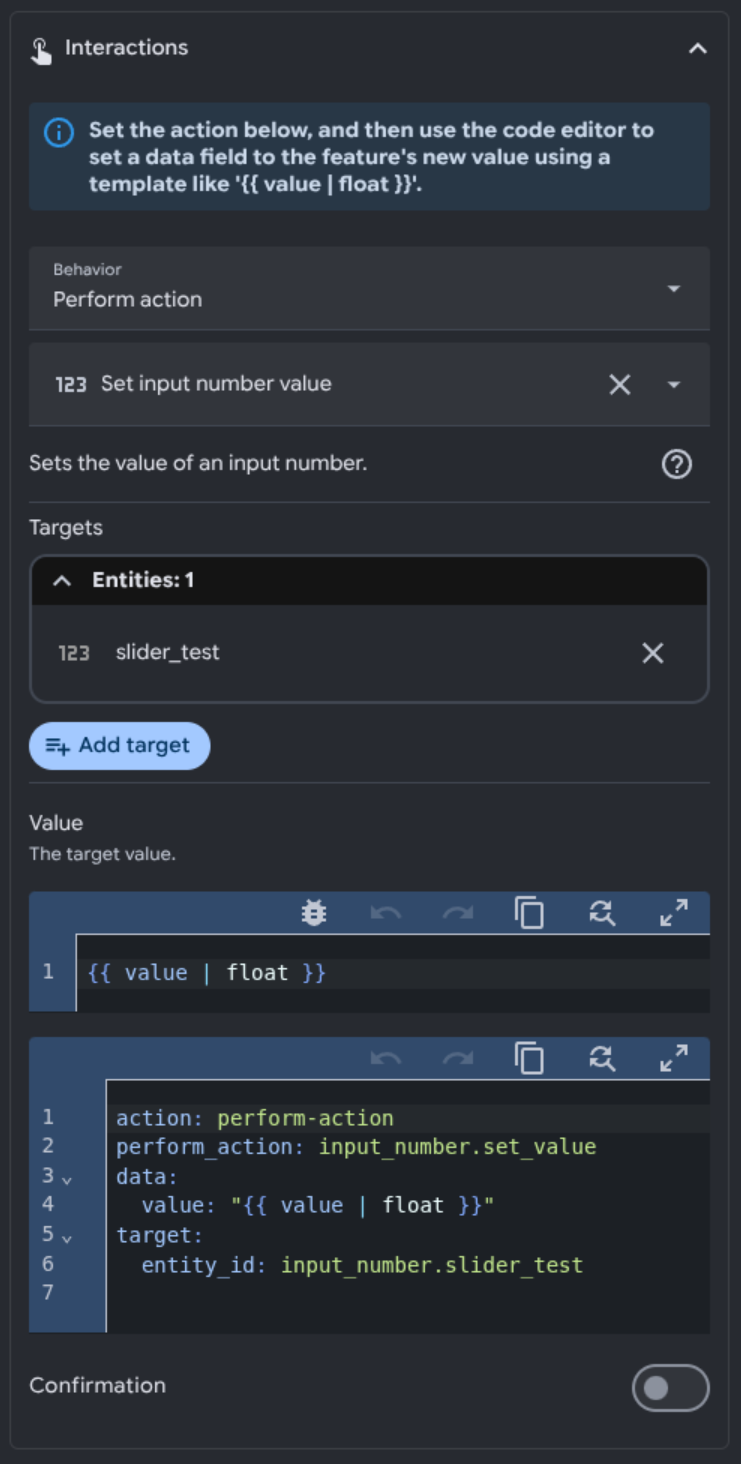
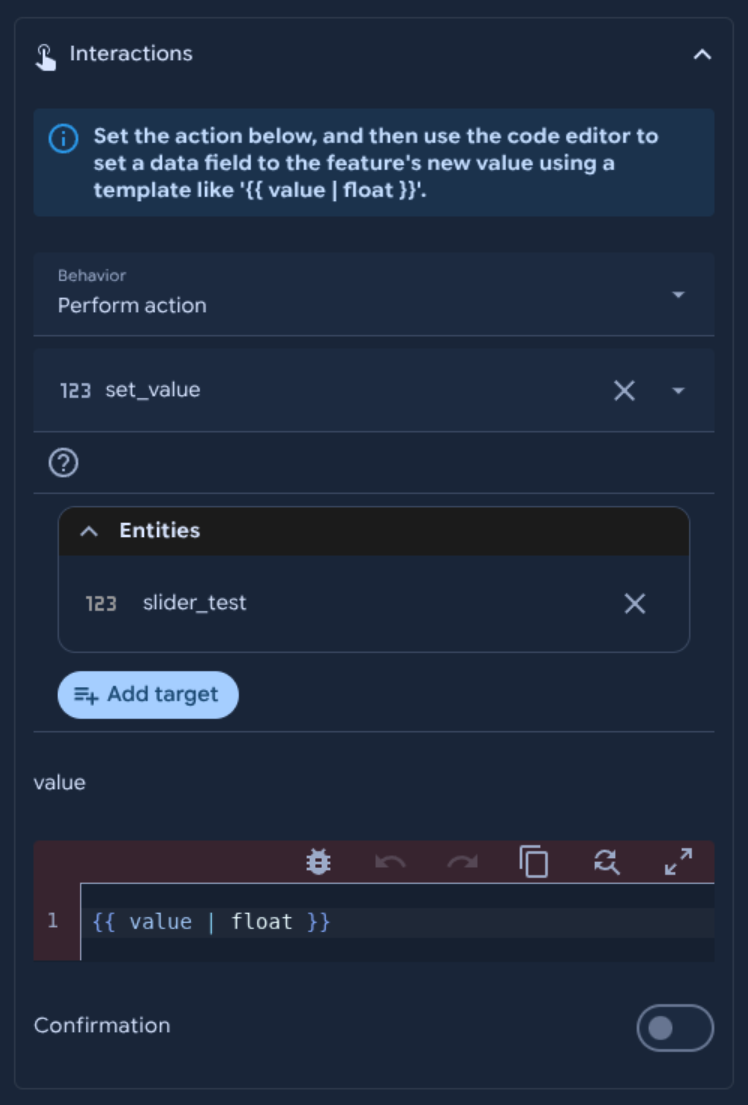
README updates no per action code editor

diff --git a/README.md b/README.md
@@ -578,7 +578,7 @@ There are three traditional interactions supported by Home Assistant - tap, doub
 
 Each action also supports the `confirmation` field. More information on Home Assistant action confirmations can be found [here](https://www.home-assistant.io/dashboards/actions/#options-for-confirmation).
 
-When setting the action for a slider or spinbox, you must use `value` within a template in the action data to use the feature value in action. For convenience, a codebox for the action will be displayed below the normal action options.
+When setting the action certain features like the slider, you must use `value` within a template in the action data to use the feature value in action. Click the visual/code editor button toggle in the feature editor header to show the yaml config for just this feature.
 
 <img src="https://raw.githubusercontent.com/Nerwyn/custom-card-features/main/assets/slider_action_options.png" width="600"/>
 
@@ -635,7 +635,7 @@ As an alternative to normal tap, hold, and double tap actions, buttons, includin
 
 The momentary start action is fired when you first press down on a button. The momentary end action is fired when you release the button. Similarly to repeat hold action, the momentary repeat action is held when you hold down on the button for a set number of milliseconds. Unlike the repeat hold action, it can be different from the momentary start action. These actions can be used together or separately.
 
-For momentary repeat and end actions you can include the number of seconds a button has been held down using `hold_secs` in a template. For convenience, the momentary end action YAML is included in a code box below the action, like shown above.
+For momentary repeat and end actions you can include the number of seconds a button has been held down using `hold_secs` in a template. Click the visual/code editor button toggle in the feature editor header to show the yaml config for just this feature.
 
 ### Setting and Using Attributes
 
